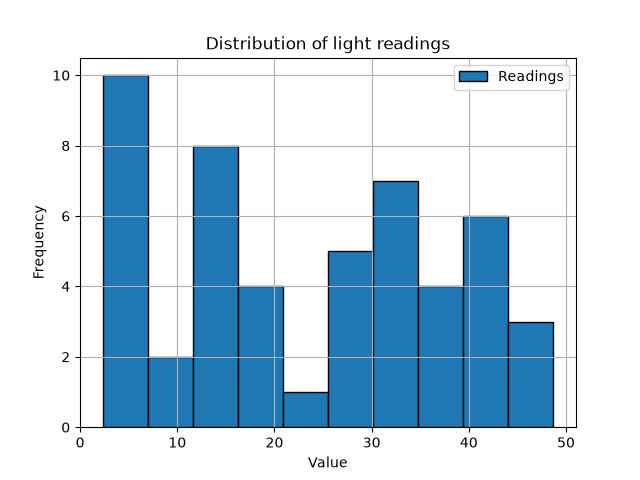
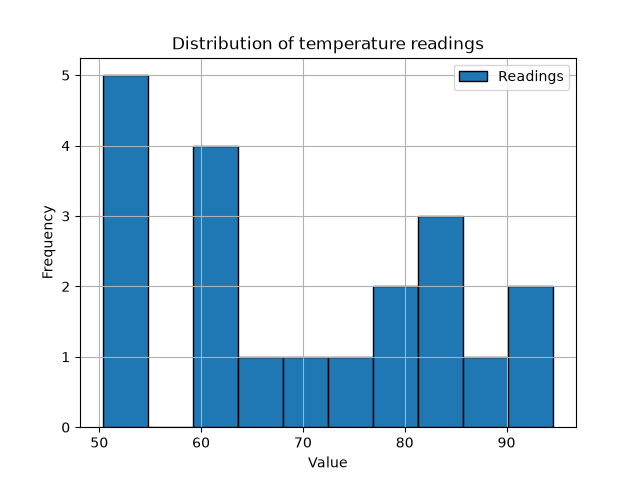
Save readings to CSV with error handling

diff --git a/sensor_monitor.py b/sensor_monitor.py
@@ -1,8 +1,10 @@
 import random
 import numpy as np
 import matplotlib.pyplot as plt
+import csv
 
 SEED = 42
+CSV_FILE = "sensor_readings.csv"
 
 def ask_float(prompt): # comma getal
     while True:
@@ -86,12 +88,24 @@ def plot_histogram(readings, sensor_type):
     plt.legend()
     plt.savefig("readings_histogram.png")
 
+def save_readings(readings, filename):
+    try:
+        with open(filename, "w", newline="") as file:
+            writer = csv.writer(file)
+            writer.writerow(["sample", "reading"])
+            for number, value in enumerate(readings, start=1):
+                writer.writerow([number, value])
+        print(f"\nReadings saved to {filename}")
+    except OSError as error:
+        print(f"\nError: could not save {filename}: {error}")
+
 def main():
     print("=== Sensor Data Analysis Tool ===")
     settings = get_input()
     readings = generate_readings(
         settings["count"], settings["min_value"], settings["max_value"]
     )
+    save_readings(readings, CSV_FILE)
 
     threshold = settings["threshold"]
     stats = calculate_statistics(readings, threshold)
